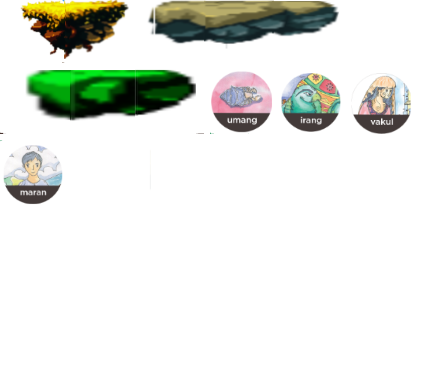
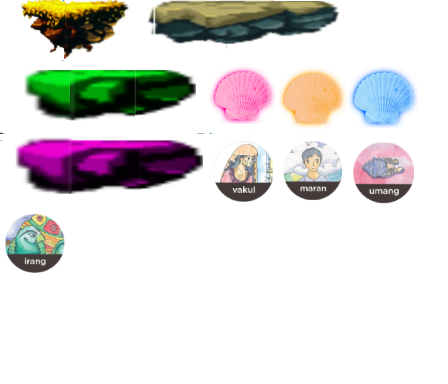
new tiemap

diff --git a/js/states/stateMain.js b/js/states/stateMain.js
@@ -14,9 +14,9 @@ var StateMain = {
 
         this.numberOfMaps = 1;
         //check this line
-        this.bombCount = [4, 10];
-        //check this line
+        this.bombCount = [4];
         this.need = this.bombCount[level - 1];
+
 
 
         //add sound buttons
@@ -76,9 +76,7 @@ var StateMain = {
 
         this.layer = this.map.createLayer("Tile Layer 1");
         this.layer.resizeWorld();
-        this.map.setCollisionBetween(0, 15);
-
-
+        this.map.setCollisionBetween(0, 12);
 
         this.upArrow = game.add.sprite(0, 0, "arrow");
         this.downArrow = game.add.sprite(0, 50, "arrow");
@@ -156,12 +154,11 @@ var StateMain = {
         game.camera.follow(this.robot);
         cursors = game.input.keyboard.createCursorKeys();
 
+        this.map.setTileIndexCallback(13, this.gotBomb, this);
+        this.map.setTileIndexCallback(14, this.gotBomb, this);
+        this.map.setTileIndexCallback(15, this.gotBomb, this);
         this.map.setTileIndexCallback(16, this.gotBomb, this);
-        this.map.setTileIndexCallback(17, this.gotBomb, this);
-        this.map.setTileIndexCallback(18, this.gotBomb, this);
-        this.map.setTileIndexCallback(19, this.gotBomb, this);
-        this.map.setTileIndexCallback(20, this.gotBomb, this);
-        this.map.setTileIndexCallback(21, this.gotBomb, this);
+
 
         this.makeMonsters();
 
@@ -221,7 +218,7 @@ var StateMain = {
 
 
 
-        if (score == 1) {
+        if (score == 4) {
             gameMedia.playSound(this.victoryMusic);
             game.state.start("StateVictory");
 
